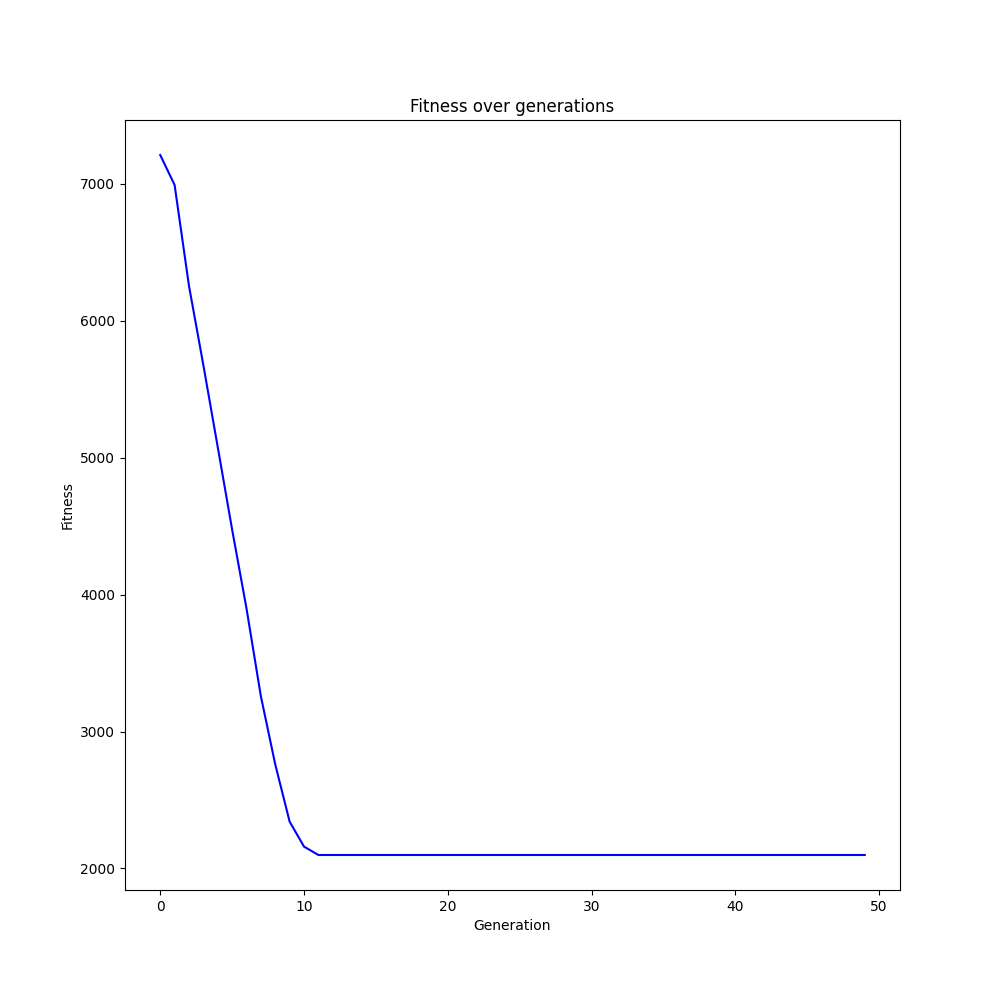
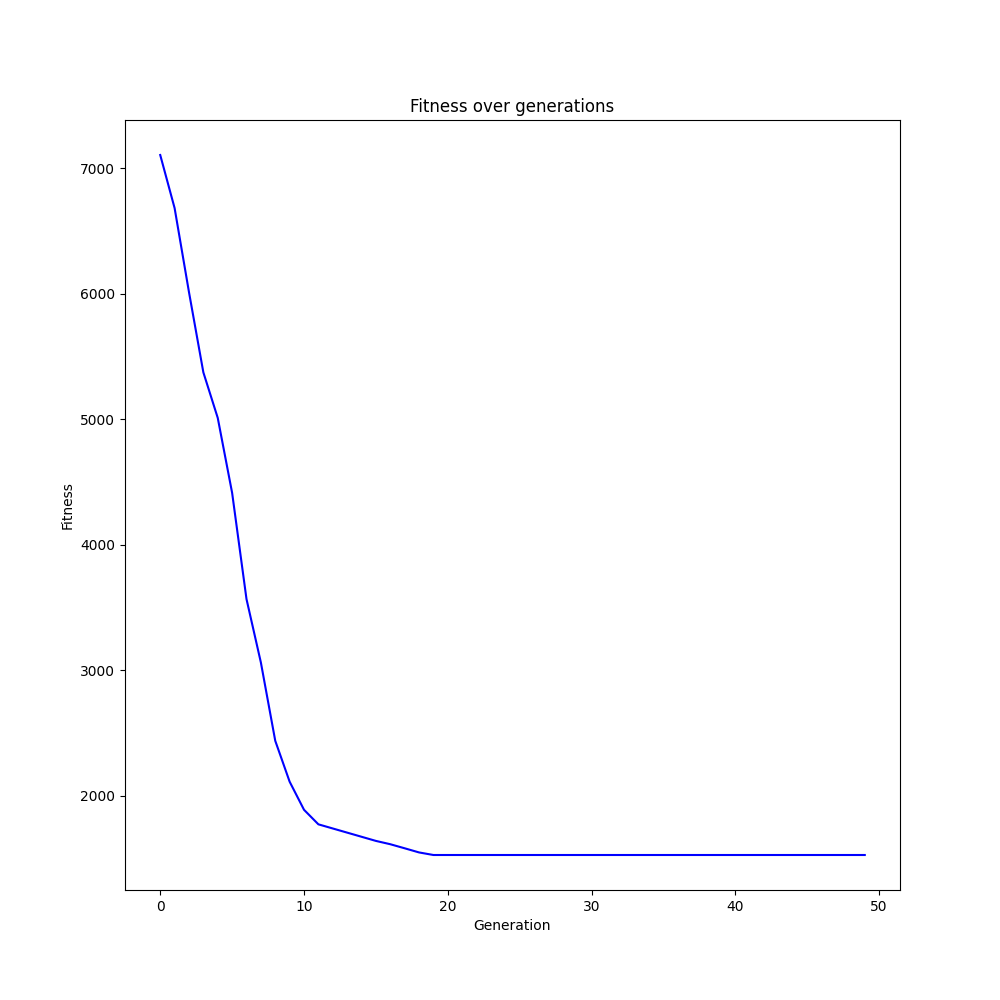
2 point cross over done

diff --git a/task3v2.py b/task3v2.py
@@ -162,6 +162,14 @@ def selection(pop_with_fitness, population_loss, new_born_rate) -> list and int:
         best_genes.append(copy.deepcopy(sorted_pop[i][3]))
     return best_genes, avg_top_fitness
 
+
+def cross_over_point_selection(smallest_gene) -> int and int:
+    """Cross over point selection function"""
+    position1 = random.randint(0, smallest_gene)
+    position2 = random.randint(0, smallest_gene)
+    return min(position1, position2), max(position1, position2)
+
+
 def cross_over(gene1, gene2) -> list:
     """Cross over function the function takes two genes and returns 2 new genes
     args = (gene1 = (["right","left"...], 1), gene2 = (gene, 2))
@@ -169,13 +177,15 @@ def cross_over(gene1, gene2) -> list:
     """
     new_gene1 = [] # new gene
     new_gene2 = [] # new gene
-    for i in range(len(gene1[0])):
-        if i < len(gene1[0]) / 2: # first half of gene1 and second half of gene2 mid point crossover
-            new_gene1.append(gene1[0][i])
-            new_gene2.append(gene2[0][i])
-        else:
+    smallest_gene = min(len(gene1[0]), len(gene2[0]))
+    start_point, end_point = cross_over_point_selection(smallest_gene)
+    for i in range(smallest_gene):
+        if i >= start_point and i <= end_point:
             new_gene1.append(gene2[0][i])
             new_gene2.append(gene1[0][i])
+        else:
+            new_gene1.append(gene1[0][i])
+            new_gene2.append(gene2[0][i])
     return (new_gene1, gene1[1]), (new_gene2, gene2[1])
 
 
